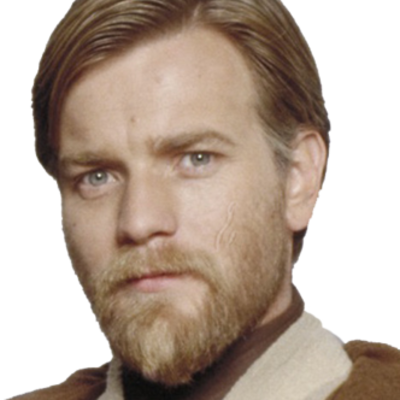
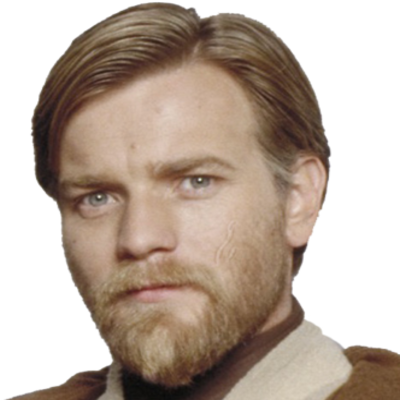
Added win and loss functions and modified images to fit easier

diff --git a/assets/javascript/game.js b/assets/javascript/game.js
@@ -4,36 +4,42 @@ var starWars = {
     fighters: {
         jarJarBinks: {
             health: 10000,
+            baseHealth: 10000,
             attack: 5,
             baseAttack: 5,
             counterAttack: 20,
         },
         generalKenobi: {
             health: 150,
+            baseHealth: 150,
             attack: 10,
             baseAttack: 10,
             counterAttack: 30
         },
         anakin: {
             health: 200,
+            baseHealth: 200,
             attack: 7,
             baseAttack: 7,
             counterAttack: 25
         },
         grievous: {
             health: 300,
+            baseHealth: 300,
             attack: 3,
             baseAttack: 3,
             counterAttack: 15
         },
         palpatine: {
             health: 200,
+            baseHealth: 200,
             attack: 10,
             baseAttack: 10,
             counterAttack: 20
         },
         darthMaul: {
             health: 125,
+            baseHealth: 125,
             attack: 30,
             baseAttack: 30,
             counterAttack: 22
@@ -44,12 +50,9 @@ var starWars = {
         $('#attack').on('click', function(){
             starWars.attack();
         });
-        $('#jarJarHealth').text(this.fighters.jarJarBinks.health);
-        $('#anakinHealth').text(this.fighters.anakin.health);
-        $('#kenobiHealth').text(this.fighters.generalKenobi.health);
-        $('#grievousHealth').text(this.fighters.grievous.health);
-        $('#palpatineHealth').text(this.fighters.palpatine.health);
-        $('#darthMaulHealth').text(this.fighters.darthMaul.health);
+        Object.keys(this.fighters).forEach(element => {
+            $('#' + element + 'Health').text(starWars.fighters[element].health);
+        });
         this.updatePage();
     },
     updatePage: function(){
@@ -57,6 +60,8 @@ var starWars = {
             $(".fighterDiv[value=" + this.chosenPlayer + "]").css('visibility', 'hidden');
             $('#fighterImage').attr('src', 'assets/images/' + this.chosenPlayer + '.png');
             $('#playerHealth').text(this.fighters[this.chosenPlayer].health);
+        }else{
+            $('#chosenFighter').css('visibility', 'hidden');
         }
         if(this.chosenEnemy){
             $('.fighterDiv[value=' + this.chosenEnemy + ']').css('visibility', 'hidden');
@@ -110,14 +115,37 @@ var starWars = {
         if(numKilled === Object.keys(this.fighters).length - 1){
             this.gameWon();
         }
-        this.chooseFighter();
-        
+        if(this.fighters[this.chosenPlayer].health >= 0){
+            this.chooseFighter();
+        }
     },
     gameLost: function(){
-        console.log("You've lost");
+        $('#attack').unbind();
+        $('#endOfGame').html("<h1>You've failed to save the galaxy!</h1><button type='button' class='btn btn-info playAgain'>Play Again?</button>");
+        $('.playAgain').on('click', function(){
+            starWars.reset();
+        });
     },
     gameWon: function(){
-        console.log("You've won");
+        $('#attack').unbind();
+        $('#endOfGame').html("<h1>You did it! Congratulations!</h1><button type='button' class='btn btn-info playAgain'>Play Again?</button>");
+        $('.playAgain').on('click', function(){
+            starWars.reset();
+        });
+    },
+    reset: function(){
+        this.chosenPlayer = '';
+        this.chosenEnemy = '';
+        Object.keys(this.fighters).forEach(element => {
+            starWars.fighters[element].health = starWars.fighters[element].baseHealth;
+            starWars.fighters[element].attack = starWars.fighters[element].baseAttack;
+            $(".fighterDiv[value=" + element + "]").css('visibility', 'visible');
+            $('#chosenFighter').css('visibility', 'hidden');
+            $('#chosenEnemy').css('visibility', 'hidden');
+        });
+        $('#endOfGame').html("");
+        this.gameStart();
+
     }
 }
 

diff --git a/index.html b/index.html
@@ -13,52 +13,56 @@
     <script src="https://stackpath.bootstrapcdn.com/bootstrap/4.3.1/js/bootstrap.min.js" integrity="sha384-JjSmVgyd0p3pXB1rRibZUAYoIIy6OrQ6VrjIEaFf/nJGzIxFDsf4x0xIM+B07jRM" crossorigin="anonymous"></script>
 </head>
 <body>
-
-    <div class="container">
+    <div class="container main-content">
         <div class="row" id="fighterRow">
-            <div class="col-lg-2  fighterDiv" value='jarJarBinks'>
+            <div class="col-md-2  fighterDiv" value='jarJarBinks'>
                 <img src="./assets/images/jarJarBinks.png" alt="" value='jarJarBinks' class="fighter">
-                <p>Health: <span id="jarJarHealth"></span></p>
+                <p>Health: <span id="jarJarBinksHealth"></span></p>
             </div>
-            <div class="col-lg-2  fighterDiv" value='anakin'>
+            <div class="col-md-2  fighterDiv" value='anakin'>
                 <img src="./assets/images/anakin.png" alt="" value='anakin' class="fighter">  
                 <p>Health: <span id="anakinHealth"></span></p>
             </div>
-            <div class="col-lg-2  fighterDiv" value='generalKenobi'>
+            <div class="col-md-2  fighterDiv" value='generalKenobi'>
                 <img src="./assets/images/generalKenobi.png" alt="" value='generalKenobi' class="fighter">
-                <p>Health: <span id="kenobiHealth"></span></p>
+                <p>Health: <span id="generalKenobiHealth"></span></p>
             </div>
-            <div class="col-lg-2 fighterDiv" value='grievous'>
+            <div class="col-md-2 fighterDiv" value='grievous'>
                 <img src="./assets/images/grievous.png" alt="" value='grievous' class="fighter">
                 <p>Health: <span id="grievousHealth"></span></p>
             </div>
-            <div class="col-lg-2 fighterDiv" value='palpatine'>
+            <div class="col-md-2 fighterDiv" value='palpatine'>
                 <img src="./assets/images/palpatine.png" alt="" value='palpatine' class="fighter">
                 <p>Health: <span id="palpatineHealth"></span></p>
             </div>
-            <div class="col-lg-2 fighterDiv" value='darthMaul'>
+            <div class="col-md-2 fighterDiv" value='darthMaul'>
                 <img src="./assets/images/darthMaul.png" alt="" value='darthMaul' class="fighter">
                 <p>Health: <span id="darthMaulHealth"></span></p>
             </div>
         </div>
 
         <div class="row">
-            <div class="col-lg-5" id="chosenFighter">
+            <div class="col-md-5" id="chosenFighter">
                 <img src="" alt="" srcset="" id="fighterImage"> 
                 <p>Health: <span id="playerHealth"></span></p>
             </div>
-            <div class="col-lg-2">
+            <div class="col-md-2">
                 <div class="text-center">
                     <button type="button" class="btn btn-danger text-center" id="attack">Attack!</button>
                 </div> 
             </div>
-            <div class="col-lg-5" id="chosenEnemy">
+            <div class="col-md-5" id="chosenEnemy">
                 <img src="" alt="" srcset="" id="enemyImage">
                 <p>Health: <span id="enemyHealth"></span></p>
             </div>
+        </div>     
+    </div>
+    <div class="container">
+        <div class="row">
+            <div class="col-lg-12">
+                <div id="endOfGame" class="text-center"></div>
+            </div>
         </div>
-        
-        
     </div>
 
   

diff --git a/assets/css/style.css b/assets/css/style.css
@@ -1,5 +1,17 @@
 * {
     box-sizing: border-box;
+    color: #ffffff;
+}
+
+body {
+    background: url(../images/gray_sand/gray_sand/gray_sand_@2X.png);
+}
+
+.main-content {
+    margin-top: 20px;
+    background: url(../images/124178-2.jpg);
+    background-size: 100%;
+    min-height: 704px;
 }
 
 .fighter {
@@ -14,12 +26,12 @@
 
 #chosenFighter {
     visibility: hidden;
-    border: 5px solid greenyellow;
+    /* border: 5px solid #2719C7; */
 }
 
 #chosenEnemy {
     visibility: hidden;
-    border: 5px solid red;
+    /* border: 5px solid red; */
 }
 
 #fighterRow {
@@ -28,4 +40,12 @@
 
 p {
     text-align: center;
+    font-size: 1.5em;
+    text-shadow: 3px 3px 3px black;
+}
+
+h1 {
+    text-align: center;
+    font-size: 3em;
+    text-shadow: 3px 3px 3px black;
 }
